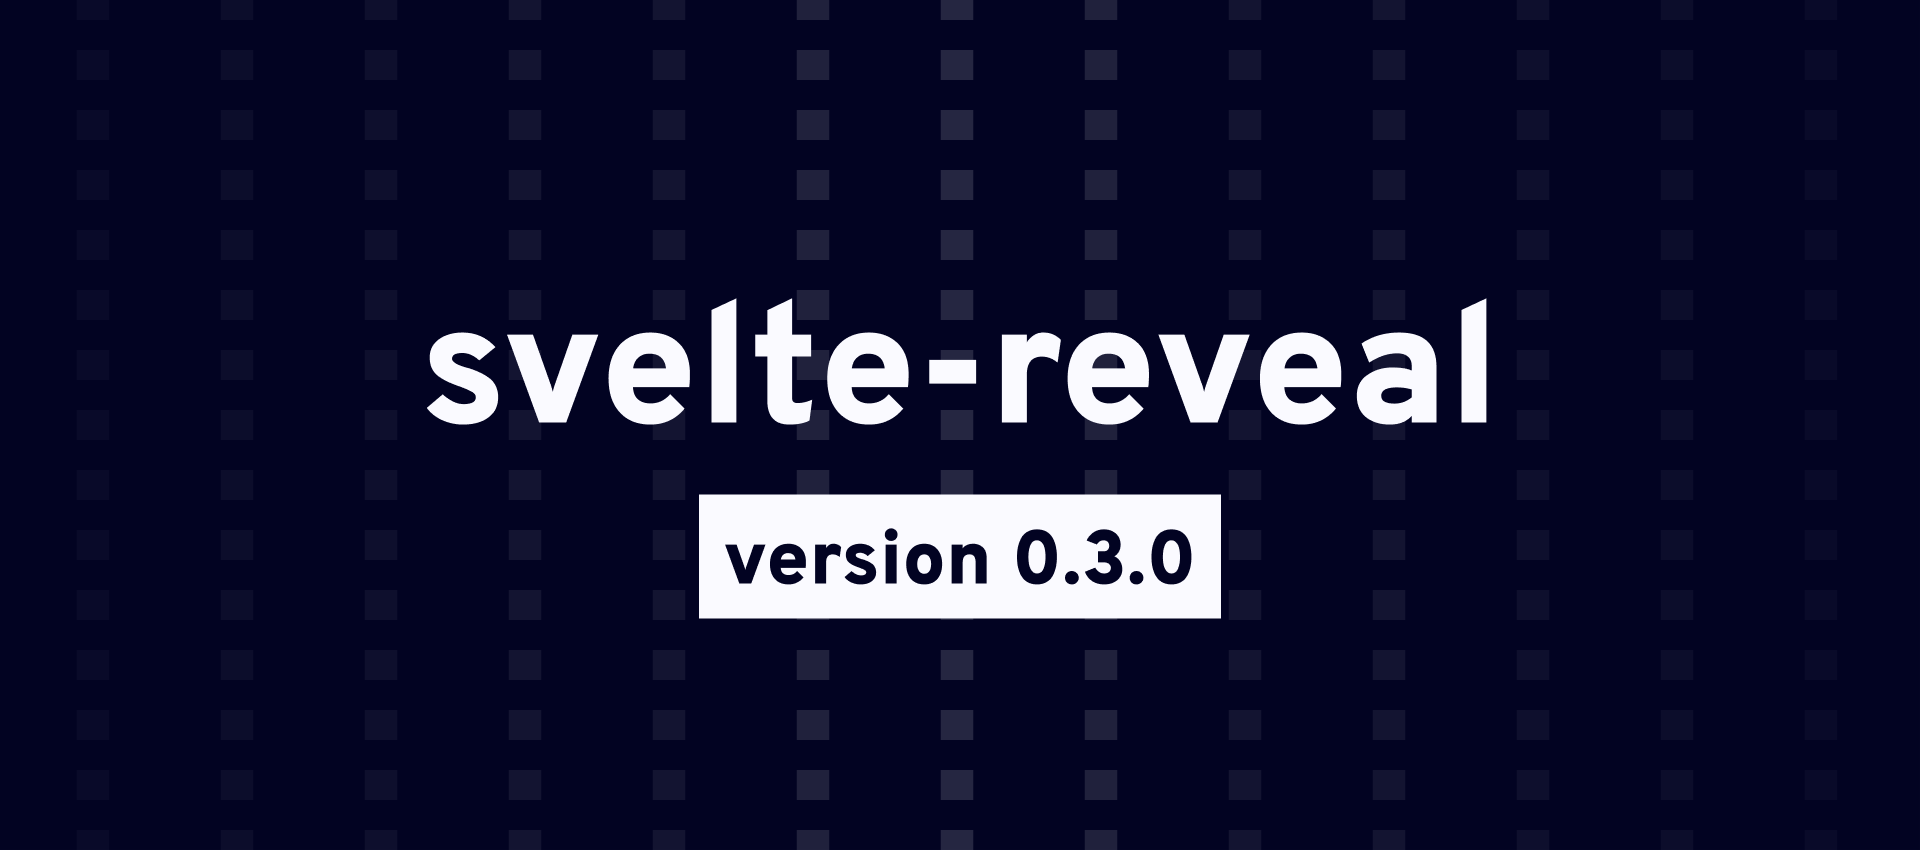
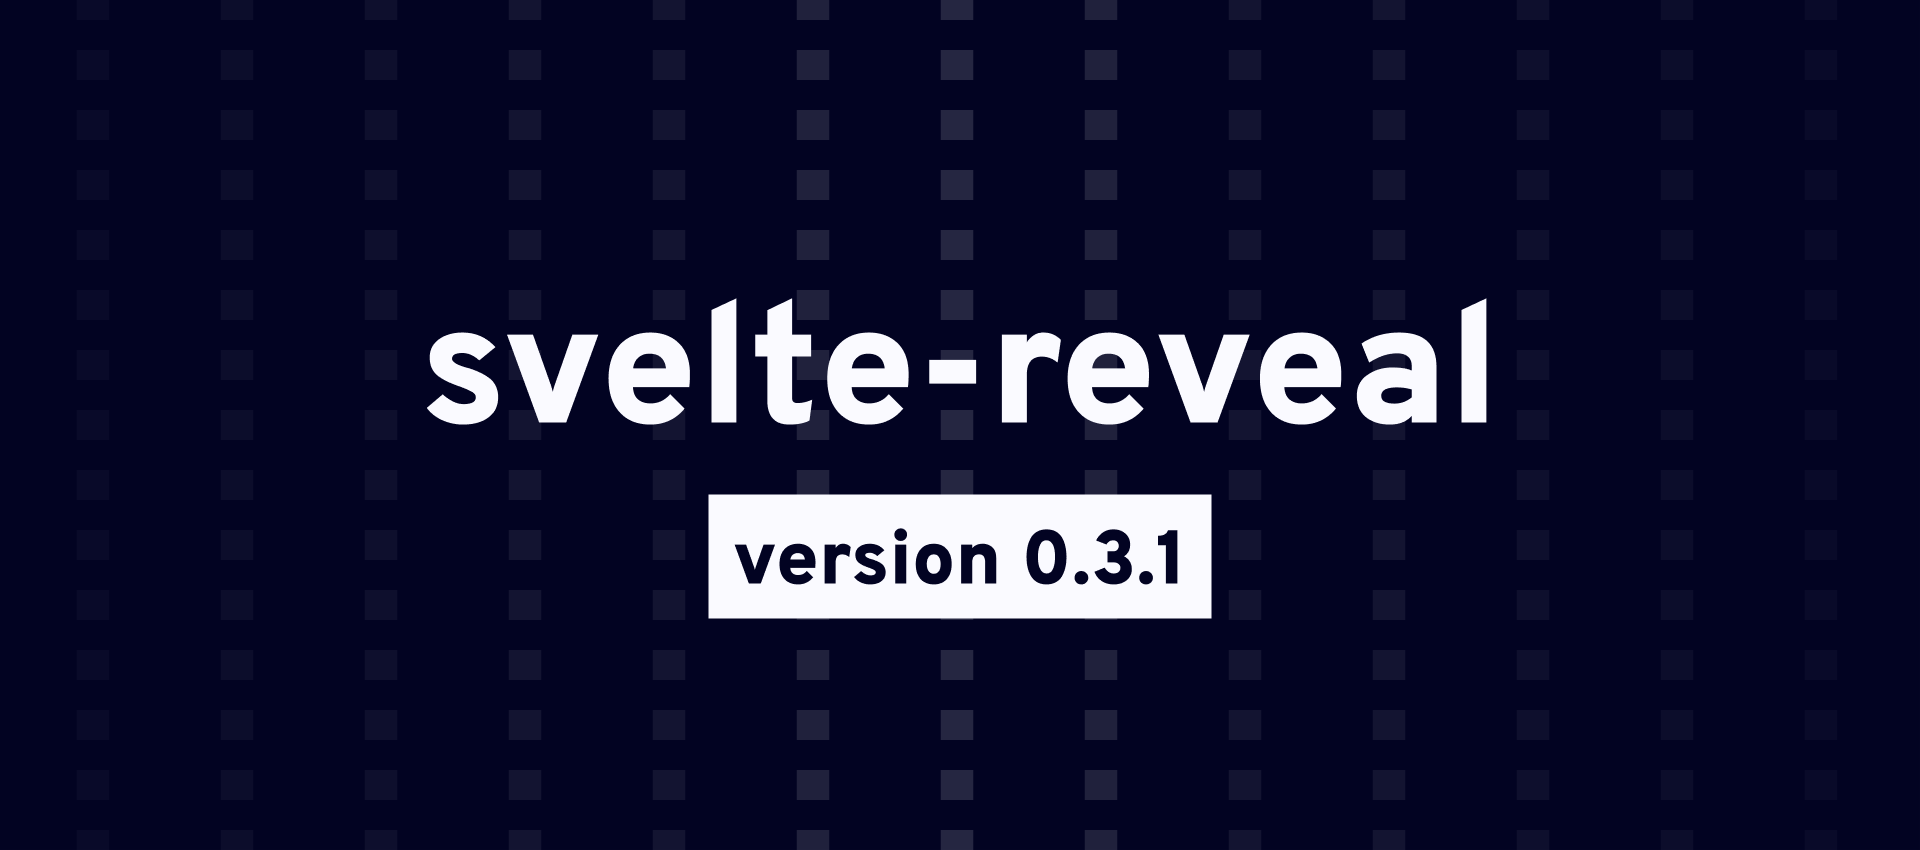
Patch 0.3.1

Changed region(s): [[0.3438, 0.5812, 0.6562, 0.7341]]

diff --git a/CHANGELOG.md b/CHANGELOG.md
@@ -7,6 +7,10 @@ and this project adheres to [Semantic Versioning](https://semver.org/spec/v2.0.0
 
 ## [Unreleased]
 
+## [0.3.1] - 2021-11-18
+### Fixed
+- Generated tag name in CI/CD pipeline
+
 ## [0.3.0] - 2021-11-18
 ### Changed
 - Added link to a demo Svelte REPL in README
